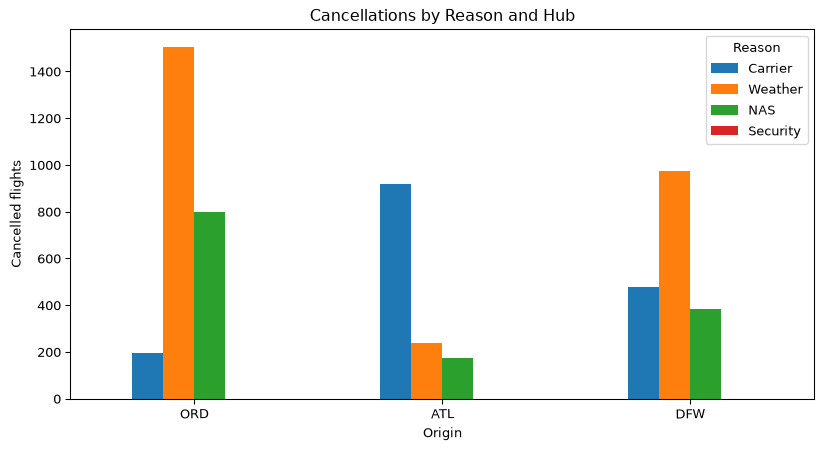
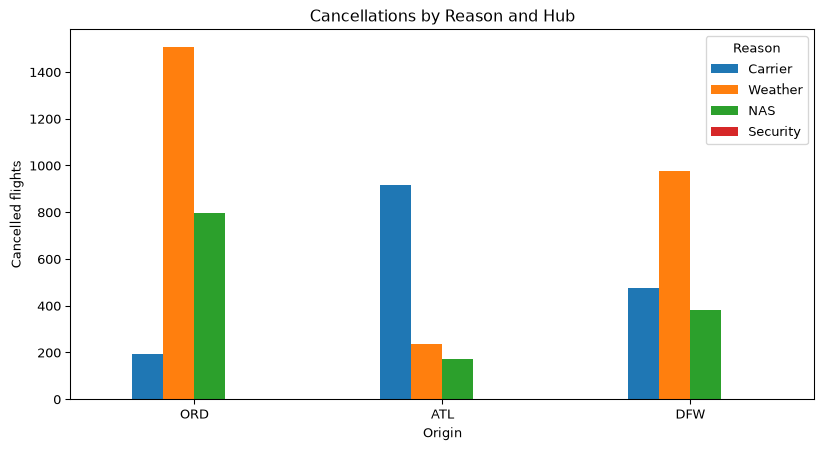
final_push

diff --git a/readme.md b/readme.md
@@ -761,7 +761,7 @@ congestion.
 Cancellation Codes per hub
 
 ``` python
-code_labels = {"A": "Carrier", "B": "Weather", "C": "NAS", "D": "Security"}
+code_names = {"A": "Carrier", "B": "Weather", "C": "NAS", "D": "Security"}
 ```
 
 ``` python
@@ -772,9 +772,9 @@ hub_cancel = hub_origin[hub_origin["Cancelled"] == 1]
 cancel_counts = (hub_cancel
                  .groupby(["Origin", "CancellationCode"])
                  .size()
-                 .unstack(fill_value=0)
-                 .reindex(index=hubs, columns=list(code_labels), fill_value=0)
-                 .rename(columns=code_labels))
+                 .unstack(fill_value=0) # takes long data and makes it wide
+                 .reindex(index=hubs, columns=list(code_names), fill_value=0) # fill: takes the NaN and makes it 0
+                 .rename(columns=code_names))
 
 cancel_counts
 ```
@@ -802,23 +802,88 @@ cancel_counts
 </div>
 
 ``` python
-ax = cancel_counts.plot(kind="bar", figsize=(10, 5),rot=1)
-ax.set_ylabel("Cancelled flights")
-ax.set_title("Cancellations by Reason and Hub")
-ax.legend(title="Reason")
+fig_a = cancel_counts.plot(kind="bar", figsize=(10, 5), rot = 0) 
+# set a standard fig size, so that all the graphs can look the same
+# rot = 0: makes x labels horizontal
+fig_a .set_ylabel("Cancelled flights")
+fig_a .set_title("Cancellations by Reason and Hub")
+fig_a .legend(title="Reason")
 plt.show()
+plt.close()
 ```
 
 ![](readme_files/figure-commonmark/cell-31-output-1.png)
 
+Look at it in terms of rates for a fair comparison
+
+``` python
+# Total departures per hub (cancelled or not), in hub order
+hub_totals = hub_origin.groupby("Origin").size().reindex(hubs)
+
+# Divide each row of counts by that hub's total departures, then convert to %
+cancel_rates = cancel_counts.div(hub_totals, axis=0) * 100 
+# axis = 0: line up all the rows (1 refers to columns)
+cancel_rates
+```
+
+<div>
+<style scoped>
+    .dataframe tbody tr th:only-of-type {
+        vertical-align: middle;
+    }
+&#10;    .dataframe tbody tr th {
+        vertical-align: top;
+    }
+&#10;    .dataframe thead th {
+        text-align: right;
+    }
+</style>
+
+| CancellationCode | Carrier  | Weather  | NAS      | Security |
+|------------------|----------|----------|----------|----------|
+| Origin           |          |          |          |          |
+| ORD              | 0.166587 | 1.293192 | 0.684379 | 0.0      |
+| ATL              | 0.871991 | 0.224661 | 0.163736 | 0.0      |
+| DFW              | 0.459349 | 0.939928 | 0.368637 | 0.0      |
+
+</div>
+
+``` python
+fig_a2 = cancel_rates.plot(kind="bar", figsize=(10, 5), rot=0)
+
+fig_a2.set_ylabel("% of departures cancelled")
+fig_a2.set_title("Cancellation Rate by Reason and Hub")
+fig_a2.legend(title="Reason")
+plt.show()
+plt.close()
+```
+
+![](readme_files/figure-commonmark/cell-33-output-1.png)
+
+ORD had the highest overall cancellation rate of the three hubs, driven
+mainly by weather and NAS. The NAS rate at ORD was about four times
+ATL’s, which suggests the FAA-mandated cuts and air traffic control
+constraints hit Chicago much harder. ATL stands out as the only hub
+where carrier-related cancellations. DFW, was more of a mix, led by
+weather.
+
 Let’s dig deeper into Chicago Count cancellations by period and reason
+for Chicago Reference: pandas.crosstab pandas.crosstab(index, columns,
+values=None, rownames=None, colnames=None, aggfunc=None, margins=False,
+margins_name=‘All’, dropna=True, normalize=False)\[source\] Compute a
+simple cross tabulation of two (or more) factors.
+
+By default, computes a frequency table of the factors unless an array of
+values and an aggregation function are passed.
+
+(https://pandas.pydata.org/pandas-docs/stable/reference/api/pandas.crosstab.html)
 
 ``` python
 ord_flights = hub_origin[hub_origin["Origin"] == "ORD"]
 
 ord_cancel = (pd.crosstab(ord_flights["Period"], ord_flights["CancellationCode"])
-              .reindex(index=labels, columns=list(code_labels), fill_value=0)
-              .rename(columns=code_labels))
+              .reindex(index=labels, columns=list(code_names), fill_value=0) # fill: takes the NaN and makes it 0
+              .rename(columns=code_names))
 
 ord_cancel
 ```
@@ -852,9 +917,9 @@ Counts to percentages
 ``` python
 ord_total = ord_flights["Period"].value_counts().reindex(labels)   # all ORD departures per period
 
-ord_rate = ord_cancel.div(ord_total, axis=0) * 100   # % of flights cancelled
+ord_rate = ord_cancel.div(ord_total, axis=0) * 100 # % of flights cancelled
 
-ord_rate.round(2)
+ord_rate
 ```
 
 <div>
@@ -870,27 +935,34 @@ ord_rate.round(2)
     }
 </style>
 
-| CancellationCode  | Carrier | Weather | NAS  | Security |
-|-------------------|---------|---------|------|----------|
-| Period            |         |         |      |          |
-| Base              | 0.09    | 0.20    | 0.12 | 0.0      |
-| Shutdown          | 0.10    | 0.06    | 0.07 | 0.0      |
-| Shutdown & Cuts   | 0.44    | 1.79    | 9.17 | 0.0      |
-| FAA Cuts          | 0.00    | 0.18    | 1.49 | 0.0      |
-| Recovery/Holidays | 0.26    | 3.27    | 0.33 | 0.0      |
+| CancellationCode  | Carrier  | Weather  | NAS      | Security |
+|-------------------|----------|----------|----------|----------|
+| Period            |          |          |          |          |
+| Base              | 0.086604 | 0.204386 | 0.124710 | 0.0      |
+| Shutdown          | 0.103222 | 0.062476 | 0.073342 | 0.0      |
+| Shutdown & Cuts   | 0.435237 | 1.793175 | 9.174791 | 0.0      |
+| FAA Cuts          | 0.000000 | 0.181635 | 1.493441 | 0.0      |
+| Recovery/Holidays | 0.264497 | 3.273780 | 0.331869 | 0.0      |
 
 </div>
 
 ``` python
-ax = ord_rate.plot(kind="bar", figsize=(10, 5), rot=1)
-ax.set_ylabel("% of departures cancelled")
-ax.set_xlabel("Period")
-ax.set_title("ORD Cancellation Rate by Period and Reason")
-ax.legend(title="Reason")
+fig_b = ord_rate.plot(kind="bar", figsize=(10, 5), rot=0)
+
+fig_b.set_ylabel("% of departures cancelled")
+fig_b.set_xlabel("Period")
+fig_b.set_title("ORD Cancellation Rate by Period and Reason")
+fig_b.legend(title="Reason")
 plt.show()
 ```
 
-![](readme_files/figure-commonmark/cell-34-output-1.png)
+![](readme_files/figure-commonmark/cell-36-output-1.png)
+
+For ORD, cancellation rates stayed near normal through the first part of
+the shutdown, then spiked sharply once the FAA-mandated cuts began.
+Cancellations were almost entirely because of NAS. After the cuts ended,
+NAS cancellations quickly fell back toward baseline and weather became
+the main driver.
 
 Compare NAS Cancellations over the 3 airports during the different
 periods
@@ -901,14 +973,13 @@ hub_origin["NAS_cancel"] = hub_origin["CancellationCode"] == "C" # flags true/ f
 
 ``` python
 # % of departures cancelled for NAS reasons, by period and hub
-nas_rate = (hub_origin
+nas_rate = ((hub_origin
             .groupby(["Period", "Origin"], observed=False)["NAS_cancel"]
-            .mean()
-            .mul(100)
-            .unstack()
+            .mean()*100)
+            .unstack() # long to wide
             .reindex(columns=hubs))
 
-nas_rate.round(2)
+nas_rate
 ```
 
 <div>
@@ -924,35 +995,43 @@ nas_rate.round(2)
     }
 </style>
 
-| Origin            | ORD  | ATL  | DFW  |
-|-------------------|------|------|------|
-| Period            |      |      |      |
-| Base              | 0.12 | 0.01 | 0.12 |
-| Shutdown          | 0.07 | 0.06 | 0.06 |
-| Shutdown & Cuts   | 9.17 | 2.09 | 4.00 |
-| FAA Cuts          | 1.49 | 0.59 | 0.92 |
-| Recovery/Holidays | 0.33 | 0.03 | 0.27 |
+| Origin            | ORD      | ATL      | DFW      |
+|-------------------|----------|----------|----------|
+| Period            |          |          |          |
+| Base              | 0.124710 | 0.011610 | 0.120900 |
+| Shutdown          | 0.073342 | 0.064695 | 0.062064 |
+| Shutdown & Cuts   | 9.174791 | 2.094140 | 3.995881 |
+| FAA Cuts          | 1.493441 | 0.592105 | 0.916784 |
+| Recovery/Holidays | 0.331869 | 0.032447 | 0.267394 |
 
 </div>
 
 ``` python
-ax = nas_rate.plot(kind="bar", figsize=(10, 5), rot=1)
-ax.set_ylabel("% of departures cancelled (NAS)")
-ax.set_xlabel("")
-ax.set_title("NAS Cancellation Rate by Period: ORD vs ATL vs DFW")
-ax.legend(title="Hub")
-plt.tight_layout()
+fig_c = nas_rate.plot(kind="bar", figsize=(10, 5), rot=1)
+
+fig_c.set_ylabel("% of departures cancelled (NAS)")
+fig_c.set_xlabel("")
+fig_c.set_title("NAS Cancellation Rate by Period: ORD vs ATL vs DFW")
+fig_c.legend(title="Hub")
 plt.show()
+plt.close()
 ```
 
-![](readme_files/figure-commonmark/cell-37-output-1.png)
+![](readme_files/figure-commonmark/cell-39-output-1.png)
+
+NAS cancellations stayed near zero at all three hubs during the shutdown
+itself, then spiked at every hub once the FAA-mandated cuts began, with
+ORD hit hardest, then DFW next, then ATL. After the shutdown ended,
+rates dropped quickly everywhere and returned close to baseline during
+the holiday period. ORD stayed slightly higher than the other two.
 
 # 20 December ORD -\> EWR
 
-On Dec 20th of this year (2026), the domestic flight I’ll be taking on
-my way home wis from Chicago O’Hare (ORD) to Newark (EWR).
+On December 20, 2026, the domestic leg of my trip home is a flight from
+Chicago O’Hare (ORD) to Newark (EWR).
 
-What was the state of these flights exactly a year ago?
+How did these flights perform on the same date last year (20 December
+2025)?
 
 ``` python
 ord_to_ewr = flights[(flights["Origin"] == "ORD") &
@@ -994,3 +1073,22 @@ Overall, the day went smoothly, with no cancelled or diverted flights,
 and I can only hope for a similar experience a year later.
 
 # Further work
+
+Estimating Airline Liability Under an EU-Style Compensation Rule
+
+The US has no law requiring airlines to compensate passengers for
+delayed or cancelled flights. The Department of Transportation proposed
+one, offering \$200–\$775 for airline-caused disruptions, but formally
+withdrew it in November 2025.
+(https://www.fox5ny.com/news/trump-administration-drops-plan-pay-passengers-flight-delays)
+
+The EU has Regulation that states that passengers are owed money (amount
+dependent on flight distance) when they arrive 3+ hours late or their
+flight is cancelled at short notice. Disruptions outside the airline’s
+control are exempt.
+
+It could be interesting to use this data set & estimate what the
+airlines’ liability would have been during 2025 if a they had the
+proposed law enstated or regulation similar to the EU. Because we have
+access to the whole of 2025’s flight data - we can look at ‘normal’
+months, as well as the specific shutdown period.
